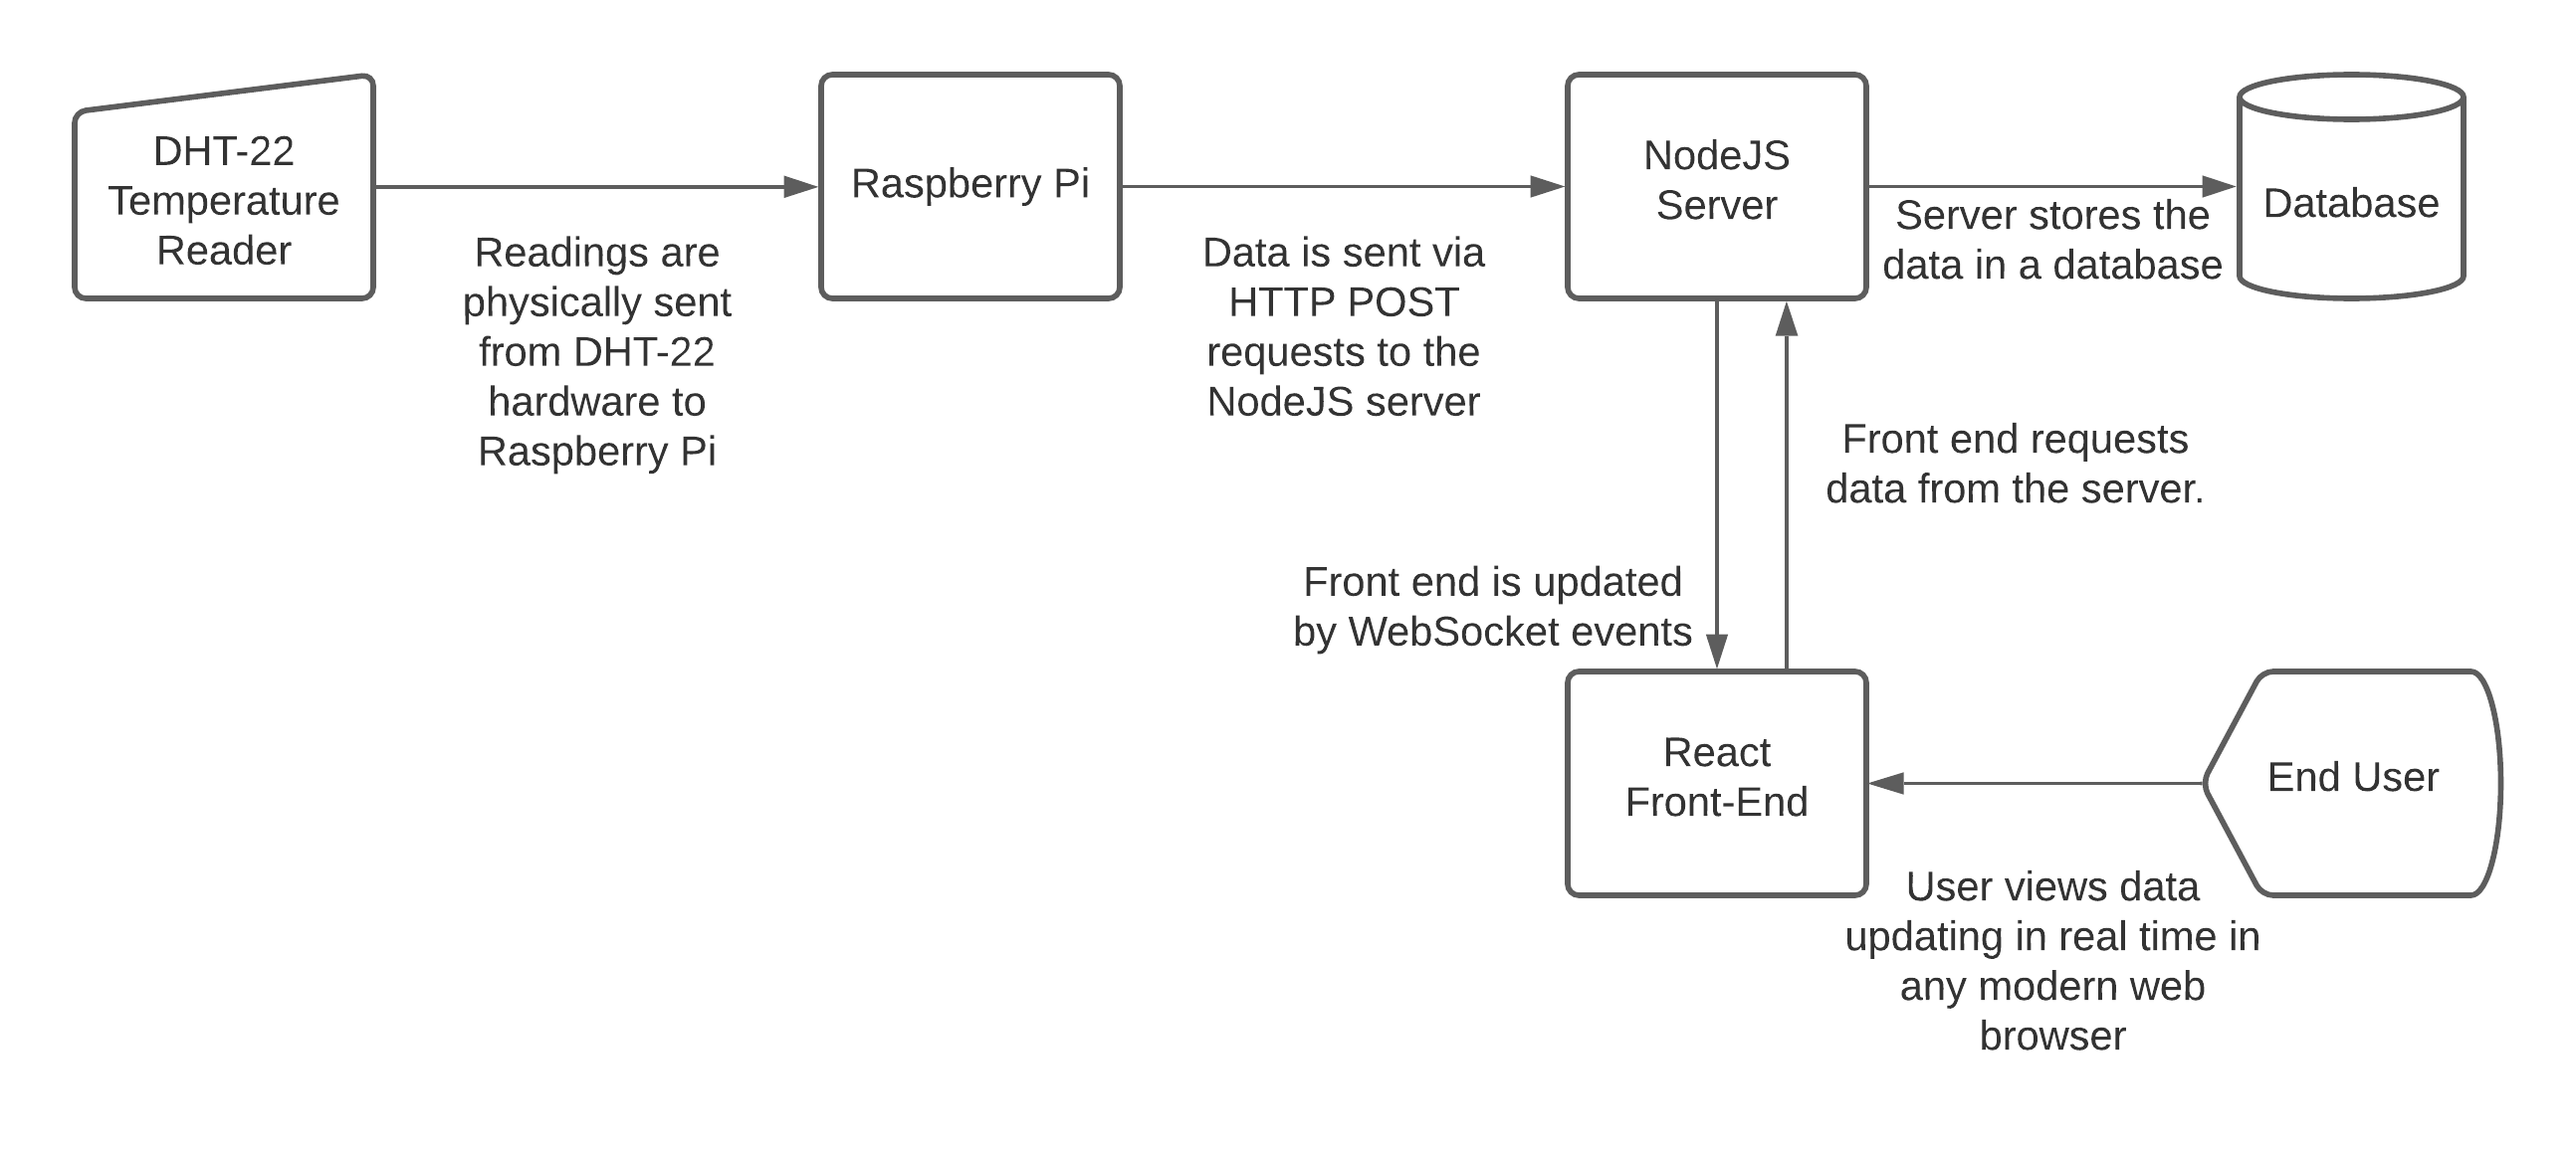
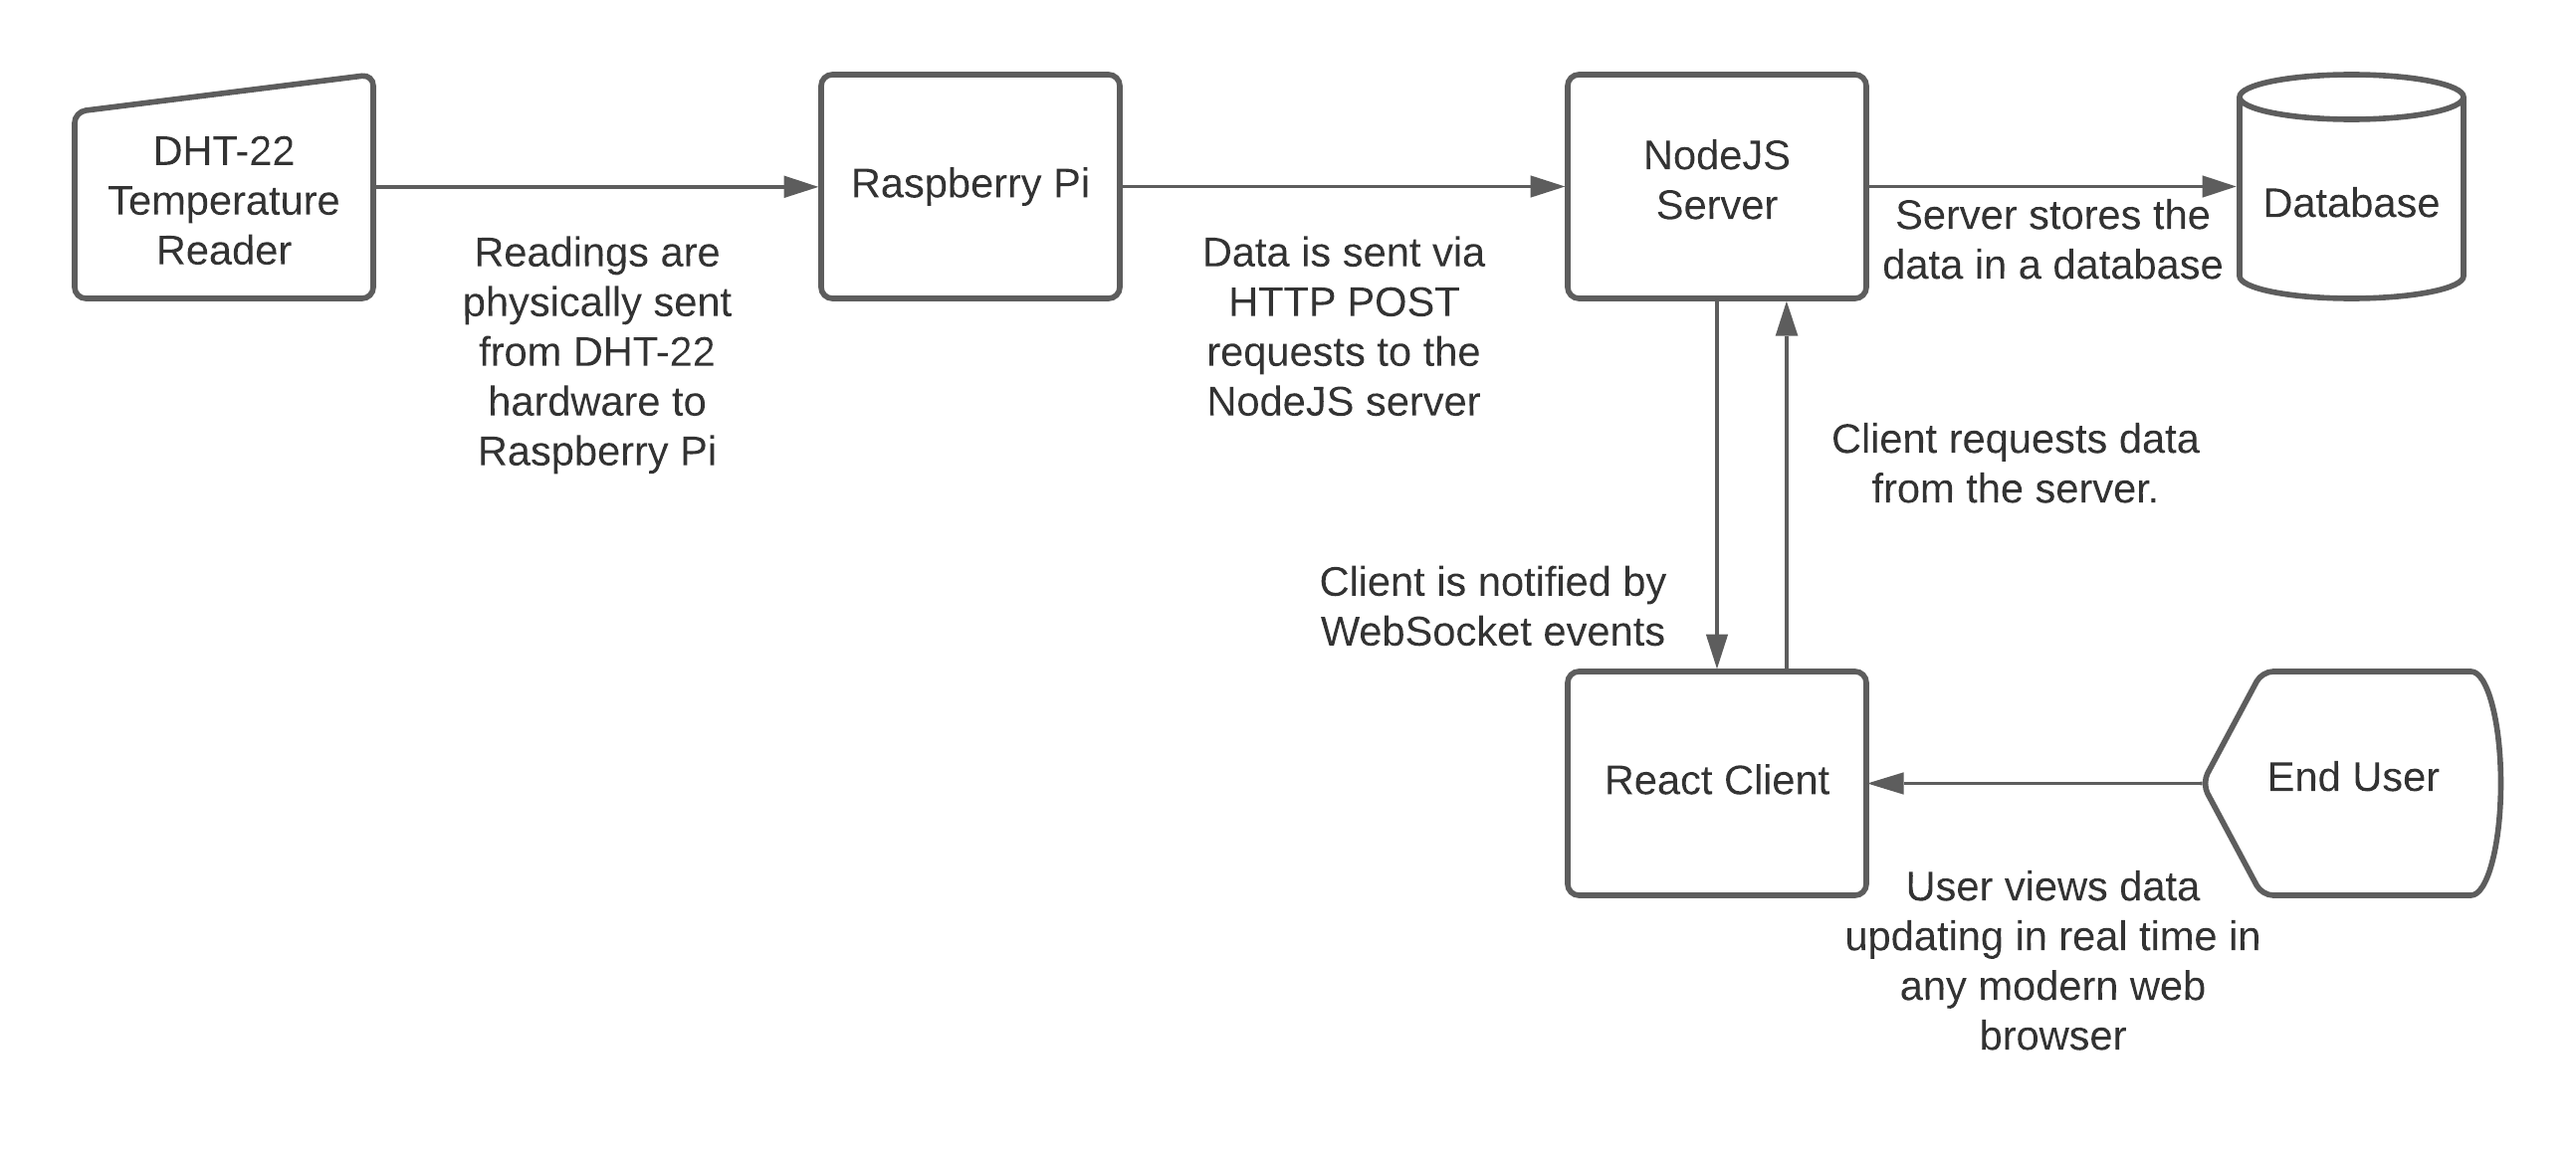
update the report more

Changed region(s): [[0.711, 0.3734, 0.8655, 0.4356], [0.4946, 0.4978, 0.6491, 0.5601], [0.6182, 0.6223, 0.711, 0.7156]]

diff --git a/report/report.md b/report/report.md
@@ -4,24 +4,113 @@ By Jack Hermanson and Dallin Casey, 2021
 
 ## Abstract
 
-Fill this in later.
+This project reads the ambient temperature and humidity of the room in which it is located using a Raspberry Pi. It sends that information to a server, along with a secret key, which then stores it in the database. A React front end (client) then connects to that server, recevies the data it has in the database, and renders it on the screen for the end user. As new data comes in, the end user's screen is updated in real time.
 
 ## Introduction
 
-Our project consists of 3 core parts: the Raspberry Pi, the NodeJS server, and the React front end. 
+Our project consists of 3 core parts: the Raspberry Pi, the NodeJS server, and the React client / front end. 
 
 The Raspberry Pi uses a sensor called DHT-22 to read temperature data when prompted by a Python program. That Python program then sends the data its gathered over the Internet to a web server using an HTTP `POST` request. 
 
-When the server receives that HTTP request, it 1) stores that data in the database, and 2) notifies the front end that it has received new data via a websocket connection. 
+When the server receives that HTTP request, it 1) stores that data in the database, and 2) notifies the client that it has received new data via a websocket event. 
 
-When the front end is notified that new data has been received by the server, it initiates an HTTP `GET` request that fetches the information stored in the database. This allows the user to continuously receive up-to-date information without having to refresh their browser or restart any programs.
+When the client is notified that new data has been received by the server, it initiates an HTTP `GET` request that fetches the information stored in the database. This allows the user to continuously receive up-to-date information without having to refresh their browser or restart any programs.
 
 ![](./overall-diagram.png)
 
 ## Problem Characterization
 
+It's a relatively trivial task to read temperature data into a Python program on a Raspberry Pi and print it to the console. Things become more difficult when you want to actually transmit that data to the Internet and save it in a database. The problem is made even more difficult when you consider that users should be able to see the information as it is coming in, without having to restart the application (or refresh the page). 
+
+Our problem has two parts:
+
+1. Send the temperature information from the Raspberry Pi to a server over the Internet.
+2. Update the end user's device in real time so they constantly receive up-to-date information.
+
 ## Proposed Solution and Implementation Strategy
+
+### Obtaining Temperature Measurements
+
+To obtain measurements of the ambient temperature, we attached a DHT-22 sensor to our Raspberry Pi with a Breadboard and some wires. Next, we wrote a small [Python](https://www.python.org/) program that accepts data generated by the sensor and sends them off to an API endpoint via HTTP `POST` requests. 
+
+### Accepting and Storing Measurements
+
+We implemented a simple HTTP server using [NodeJS](https://nodejs.org/en/about/) and the [Express](https://expressjs.com/) framework, written entirely in the [TypeScript](https://www.typescriptlang.org/) programming language. We also used the [TypeORM](https://typeorm.io/#/) library to manage our [PostgreSQL](https://www.postgresql.org/) database in production and [SQLite](https://www.sqlite.org/index.html) database in development. We also used the [jack-hermanson-ts-utils](https://www.npmjs.com/package/jack-hermanson-ts-utils) library, written and published by one of our group members.
+
+In order to prevent bots or people with bad intentions from flooding our server with garbage data, our server **requires** that each request come with a secret **token** in its header, verifying that it is coming from the Raspberry Pi and no one else. The token is a long string of random hexademical digits. The following is an example of the body of a request the server may receive:
+
+```json
+{
+	"temperature": 78.5,
+	"humidity": 0.12,
+	"generated": "2021-11-12T18:44:58.273Z"
+}
+```
+
+Once the request has been authenticated (using its token, not shown above), the server takes the data from the request and stores it in the database.
+
+### Sending Data to the Client
+
+"Client" is a synonym for the "front end" of a web application. Our app is a [Progressive Web App](https://developer.mozilla.org/en-US/docs/Web/Progressive_web_apps), which can run on the user's phone, computer, or web browser. Our client uses a popular front end library called [React](https://reactjs.org/) to paint the graphical user interface onto the screen. We also used the [Bootstrap](https://getbootstrap.com/) and [Reactstrap](https://reactstrap.github.io/?path=/story/home-installation--page) libraries to make the interface more aesthetically pleasing. We also used the [jack-hermanson-component-lib](https://www.npmjs.com/package/jack-hermanson-component-lib/v/1.3.2) library for reusable UI components and the [jack-hermanson-css-lib](https://www.npmjs.com/package/jack-hermanson-css-lib) library for aesthetics, both written and published by one of our group members. This portion of the app, like the server, was written entirely in the TypeScript programming language.
+
+When the client side of the app first starts, it attempts to make a [websocket](https://en.wikipedia.org/wiki/WebSocket) connection with the server using [socket.io](https://socket.io/), which allows it to establish **bidirectional** communication. Once the connection has been made (this takes a fraction of a second), the client application uses [axios](https://axios-http.com/docs/intro) to send HTTP `GET` requests to fetch information from the database. The server responds to the `GET` request with information in an array like this:
+
+```json
+[
+  {
+    "id": 2,
+    "temperature": 72.1,
+    "humidity": 0.14,
+    "generated": "2021-11-09T02:22:51.845Z",
+    "created": "2021-11-09T02:22:58.000Z"
+  },
+  {
+    "id": 1,
+    "temperature": 71.8,
+    "humidity": 0.15,
+    "generated": "2021-11-07T01:25:51.845Z",
+    "created": "2021-11-07T01:25:55.000Z"
+  }
+]
+```
+
+That array is stored in the client's browser memory as a **state** variable using the [easy-peasy](https://easy-peasy.vercel.app/) state management library. That state variable is accessible across all components of the app. It is **written to** in the `<SocketConnection />` component, but **read from** in the `<Measurements />` component.
+
+We use an **enumeration** to define the **events** that the server might admit (in our case, there is only one, since it is a very simple app). The `<SocketConnection />` component, via its websocket connection, listens for the `NEW_MEASUREMENT` event, and executes a lambda function when it receives that event.
+
+```typescript
+socket.on(SocketEvent.NEW_MEASUREMENT, () => {
+    console.log("New measurement");
+    loadMeasurements();
+});
+```
+
+That lambda function logs to the console, then calls the `loadMeasurements()` function, which uses axios to fetch the measurements from the server, as shown below:
+
+```typescript
+loadMeasurements: thunk(async actions => {
+    try {
+        const response = await axios.get<MeasurementRecord[]>(
+            "/api/measurements"
+        );
+        const measurements = response.data;
+        actions.setMeasurements(measurements);
+    } catch (error) {
+        console.error(error);
+    }
+}),
+```
+
+This is how the client is constantly synchronized with the data in the server's database.
 
 ## Conclusions
 
+In conclusion, this development project was a success. We accomplished everything we set out to do and eliminated a security concern that came up along the way.
+
+**TODO: ADD MORE**
+
 ## Bibliography
+
+Ardumotive_com. [Raspberry Pi Tutorial: How to Use the DHT-22](https://www.instructables.com/Raspberry-Pi-Tutorial-How-to-Use-the-DHT-22/). 7 Oct 2018.
+
+Mozilla Developer Network. [Progressive Web Apps](https://developer.mozilla.org/en-US/docs/Web/Progressive_web_apps). 13 Oct 2021.
